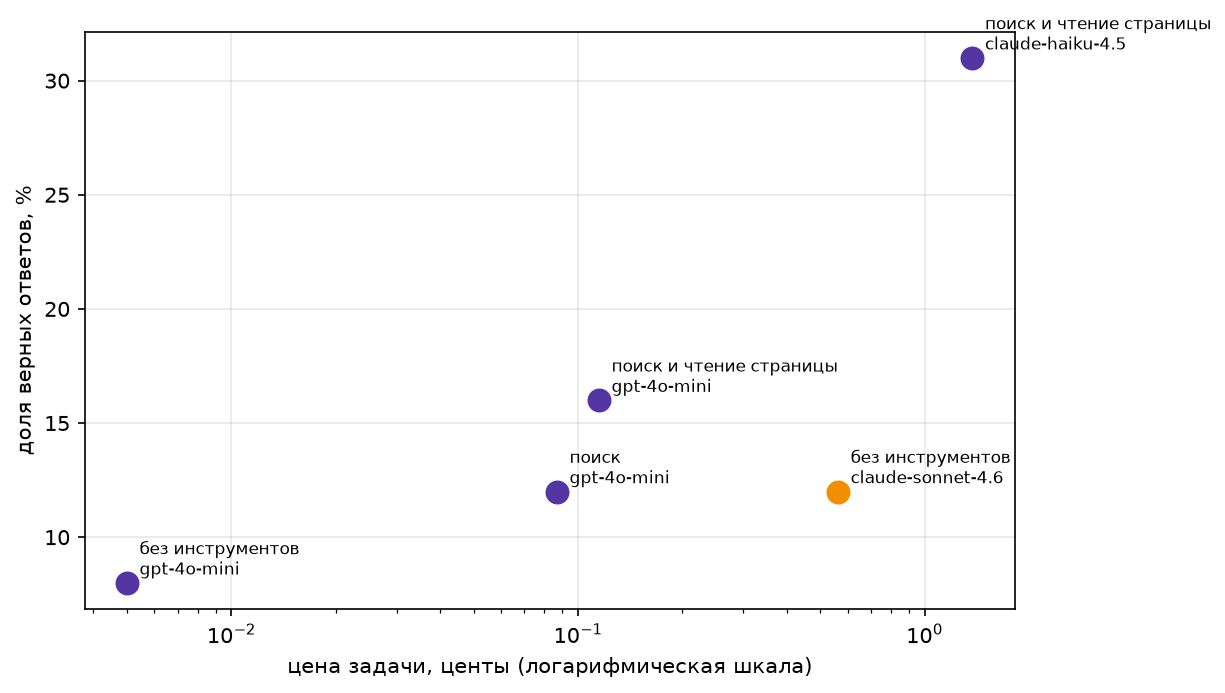
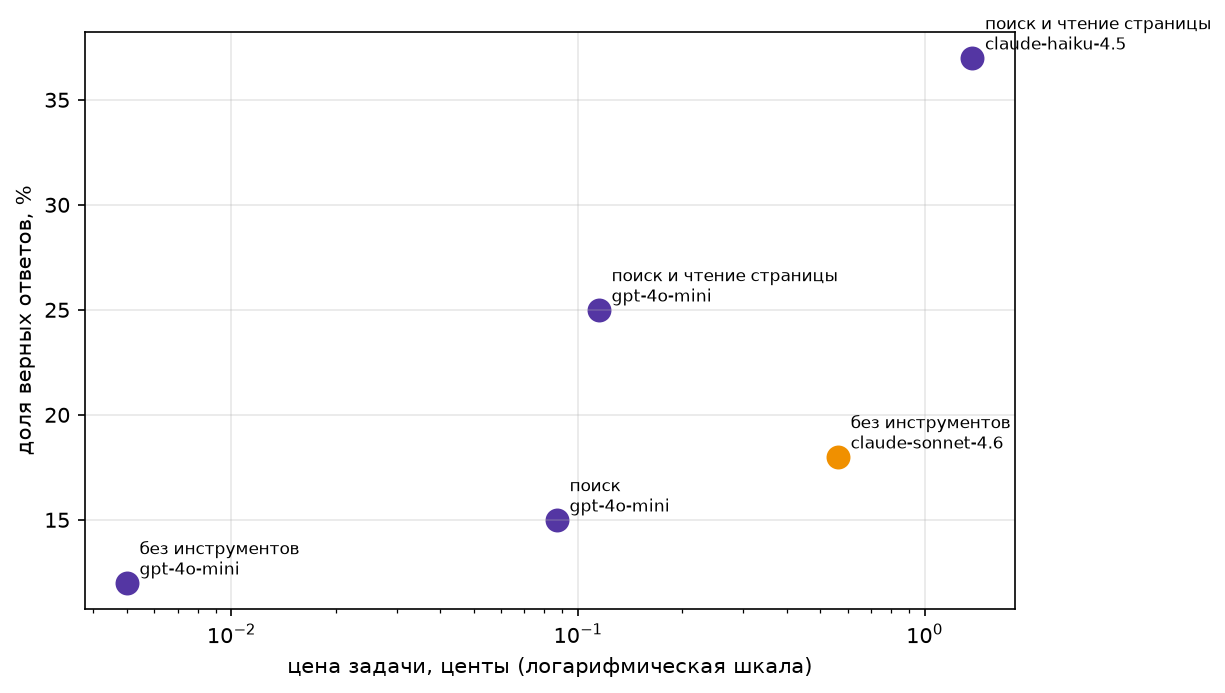
[main] fix money_quality

diff --git a/README.md b/README.md
@@ -262,7 +262,7 @@ uv run python evaluate_match_quiz.py --concurrency 5
 | поиск и чтение страницы | claude-haiku-4.5 | 104 | 0.37 | 0.01374 | 0.03760 | 5.22 | 14.7 |
 
 Точность пересчитана `--rescore` с новой проверкой ответа по тем же трейсам. С проверкой
-семинара было 0.08 / 0.12 / 0.16 / 0.12 / 0.31. Картинка ниже построена по старым числам.
+семинара было 0.08 / 0.12 / 0.16 / 0.12 / 0.31.
 
 Те же пять прогонов на плоскости «цена — качество» (`money_chart` в
 [main.py:229](main.py#L229), ось цены логарифмическая):
